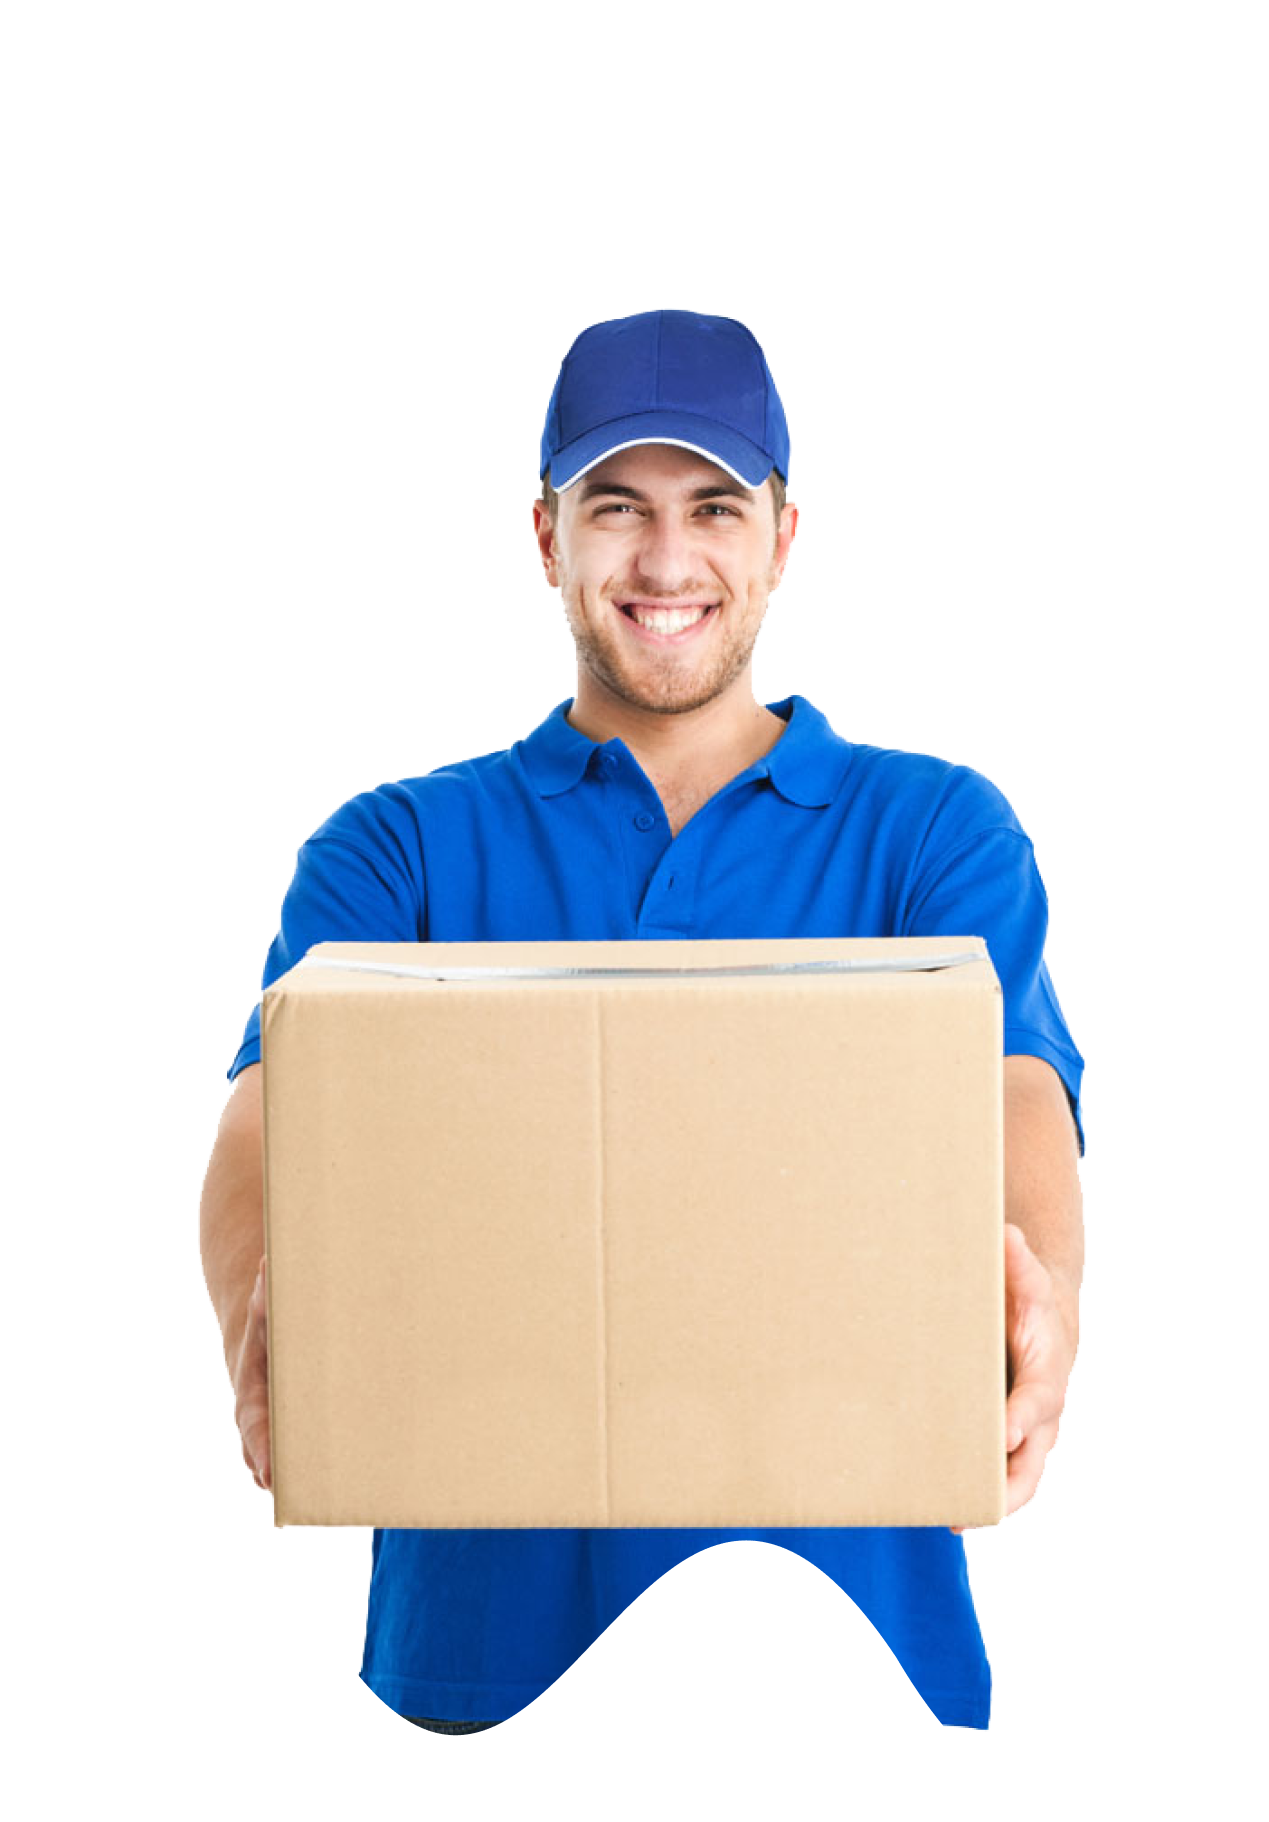
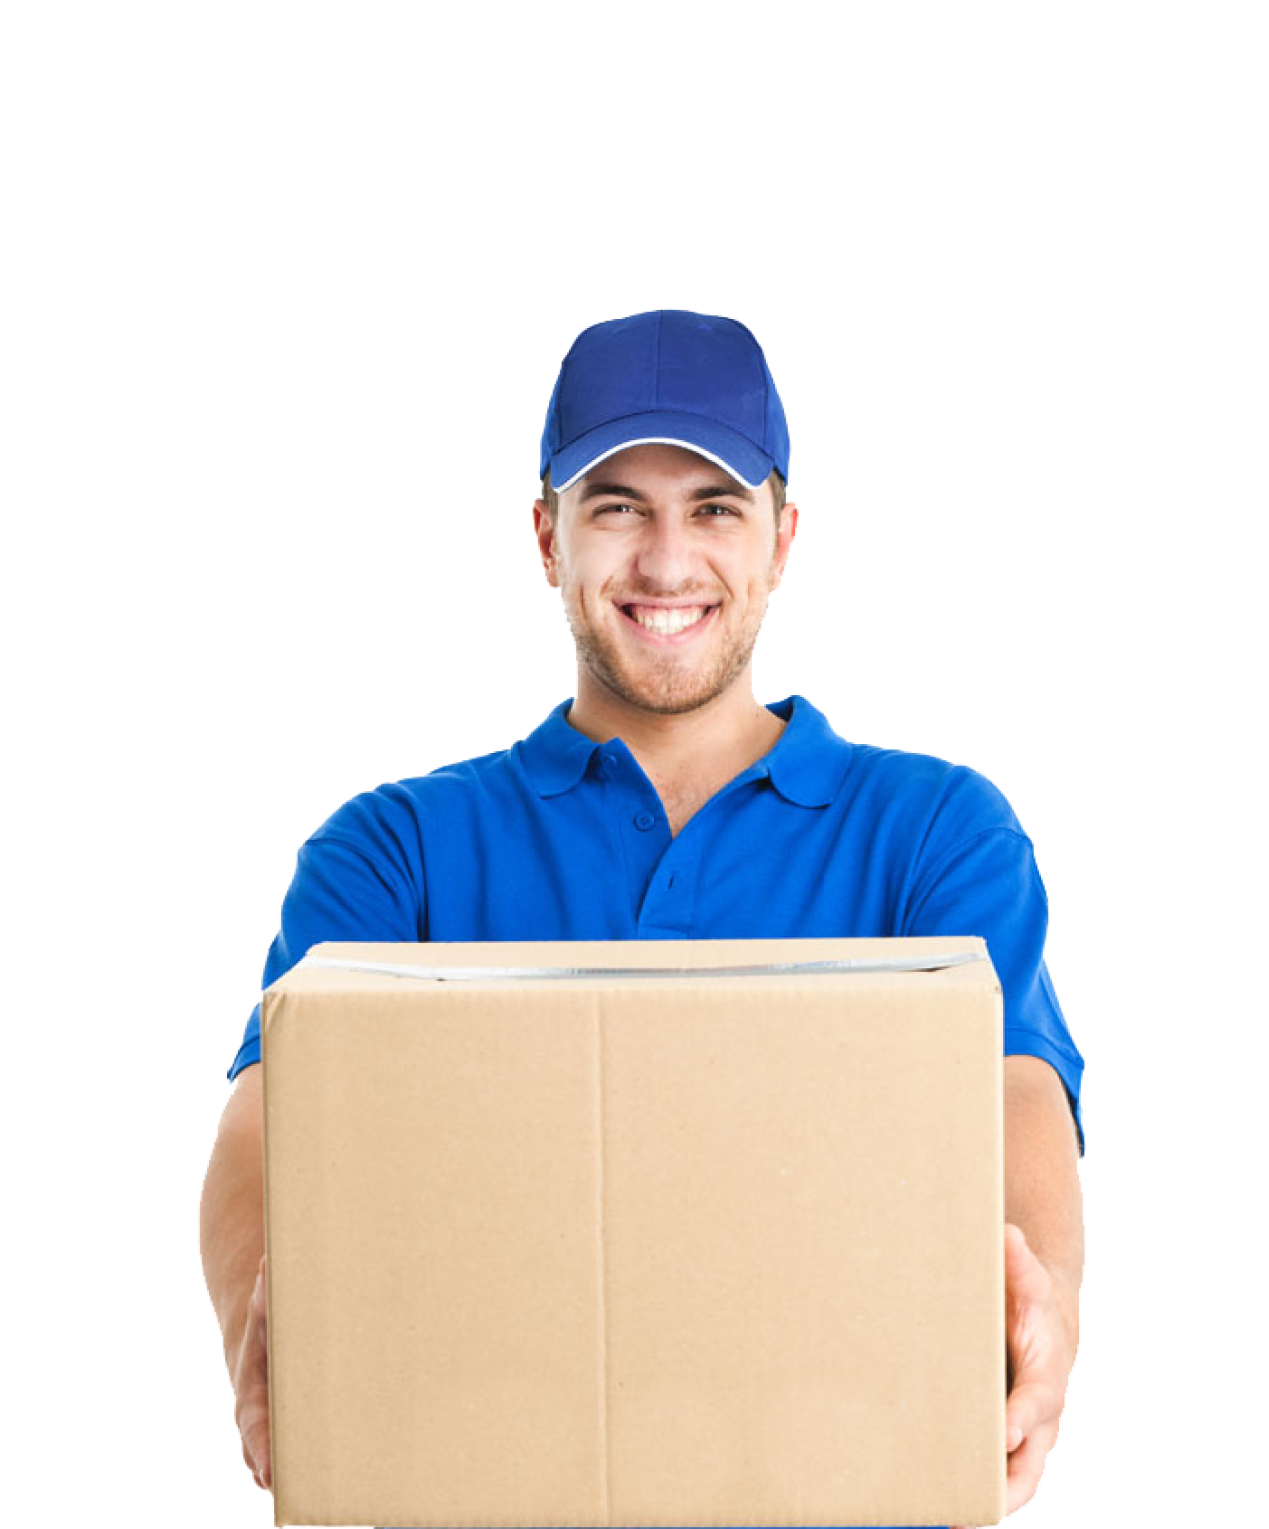
bg changes

diff --git a/src/components/TopSection.jsx b/src/components/TopSection.jsx
@@ -50,14 +50,13 @@ const TopSection = () => {
           </div>
         </section>
 
-        <section className="w-full hidden lg:grid lg:w-1/2 relative">
-          <div className="relative bg-gradient-to-r from-orange-900 to-rose-900 dark:from-orange-300 dark:to-rose-300 rounded-full p-5 shadow-xl overflow-visible">
-            <img
-              className="w-full h-[400px] lg:h-[600px] object-cover rounded-2xl"
-              src={dboy}
-              alt="Delivery boy"
-            />
-          </div>
+        <section className="w-full hidden lg:grid lg:w-1/2 relative overflow-visible ">
+          <div className="relative bg-gradient-to-r blur-2xl opacity-70 h-[400px] lg:h-[600px] from-orange-900 to-rose-900 dark:from-orange-300 dark:to-rose-300 rounded-full p-5 shadow-xl overflow-visible"></div>
+          <img
+            className="w-full absolute -top-50 object-cover rounded-2xl"
+            src={dboy}
+            alt="Delivery boy"
+          />
         </section>
       </main>
     </Container>

diff --git a/src/components/ui/Container.jsx b/src/components/ui/Container.jsx
@@ -7,7 +7,7 @@ function Container({ children }) {
       <div className="container ">
         <BackgroundGrid />
       </div>
-      <section className="container mx-auto max-w-[77%] z-50 h-[85vh] overflow-hidden">
+      <section className="container mx-auto max-w-[77%] z-50 h-[85vh]  overflow-visible">
         {children}
       </section>
     </main>
